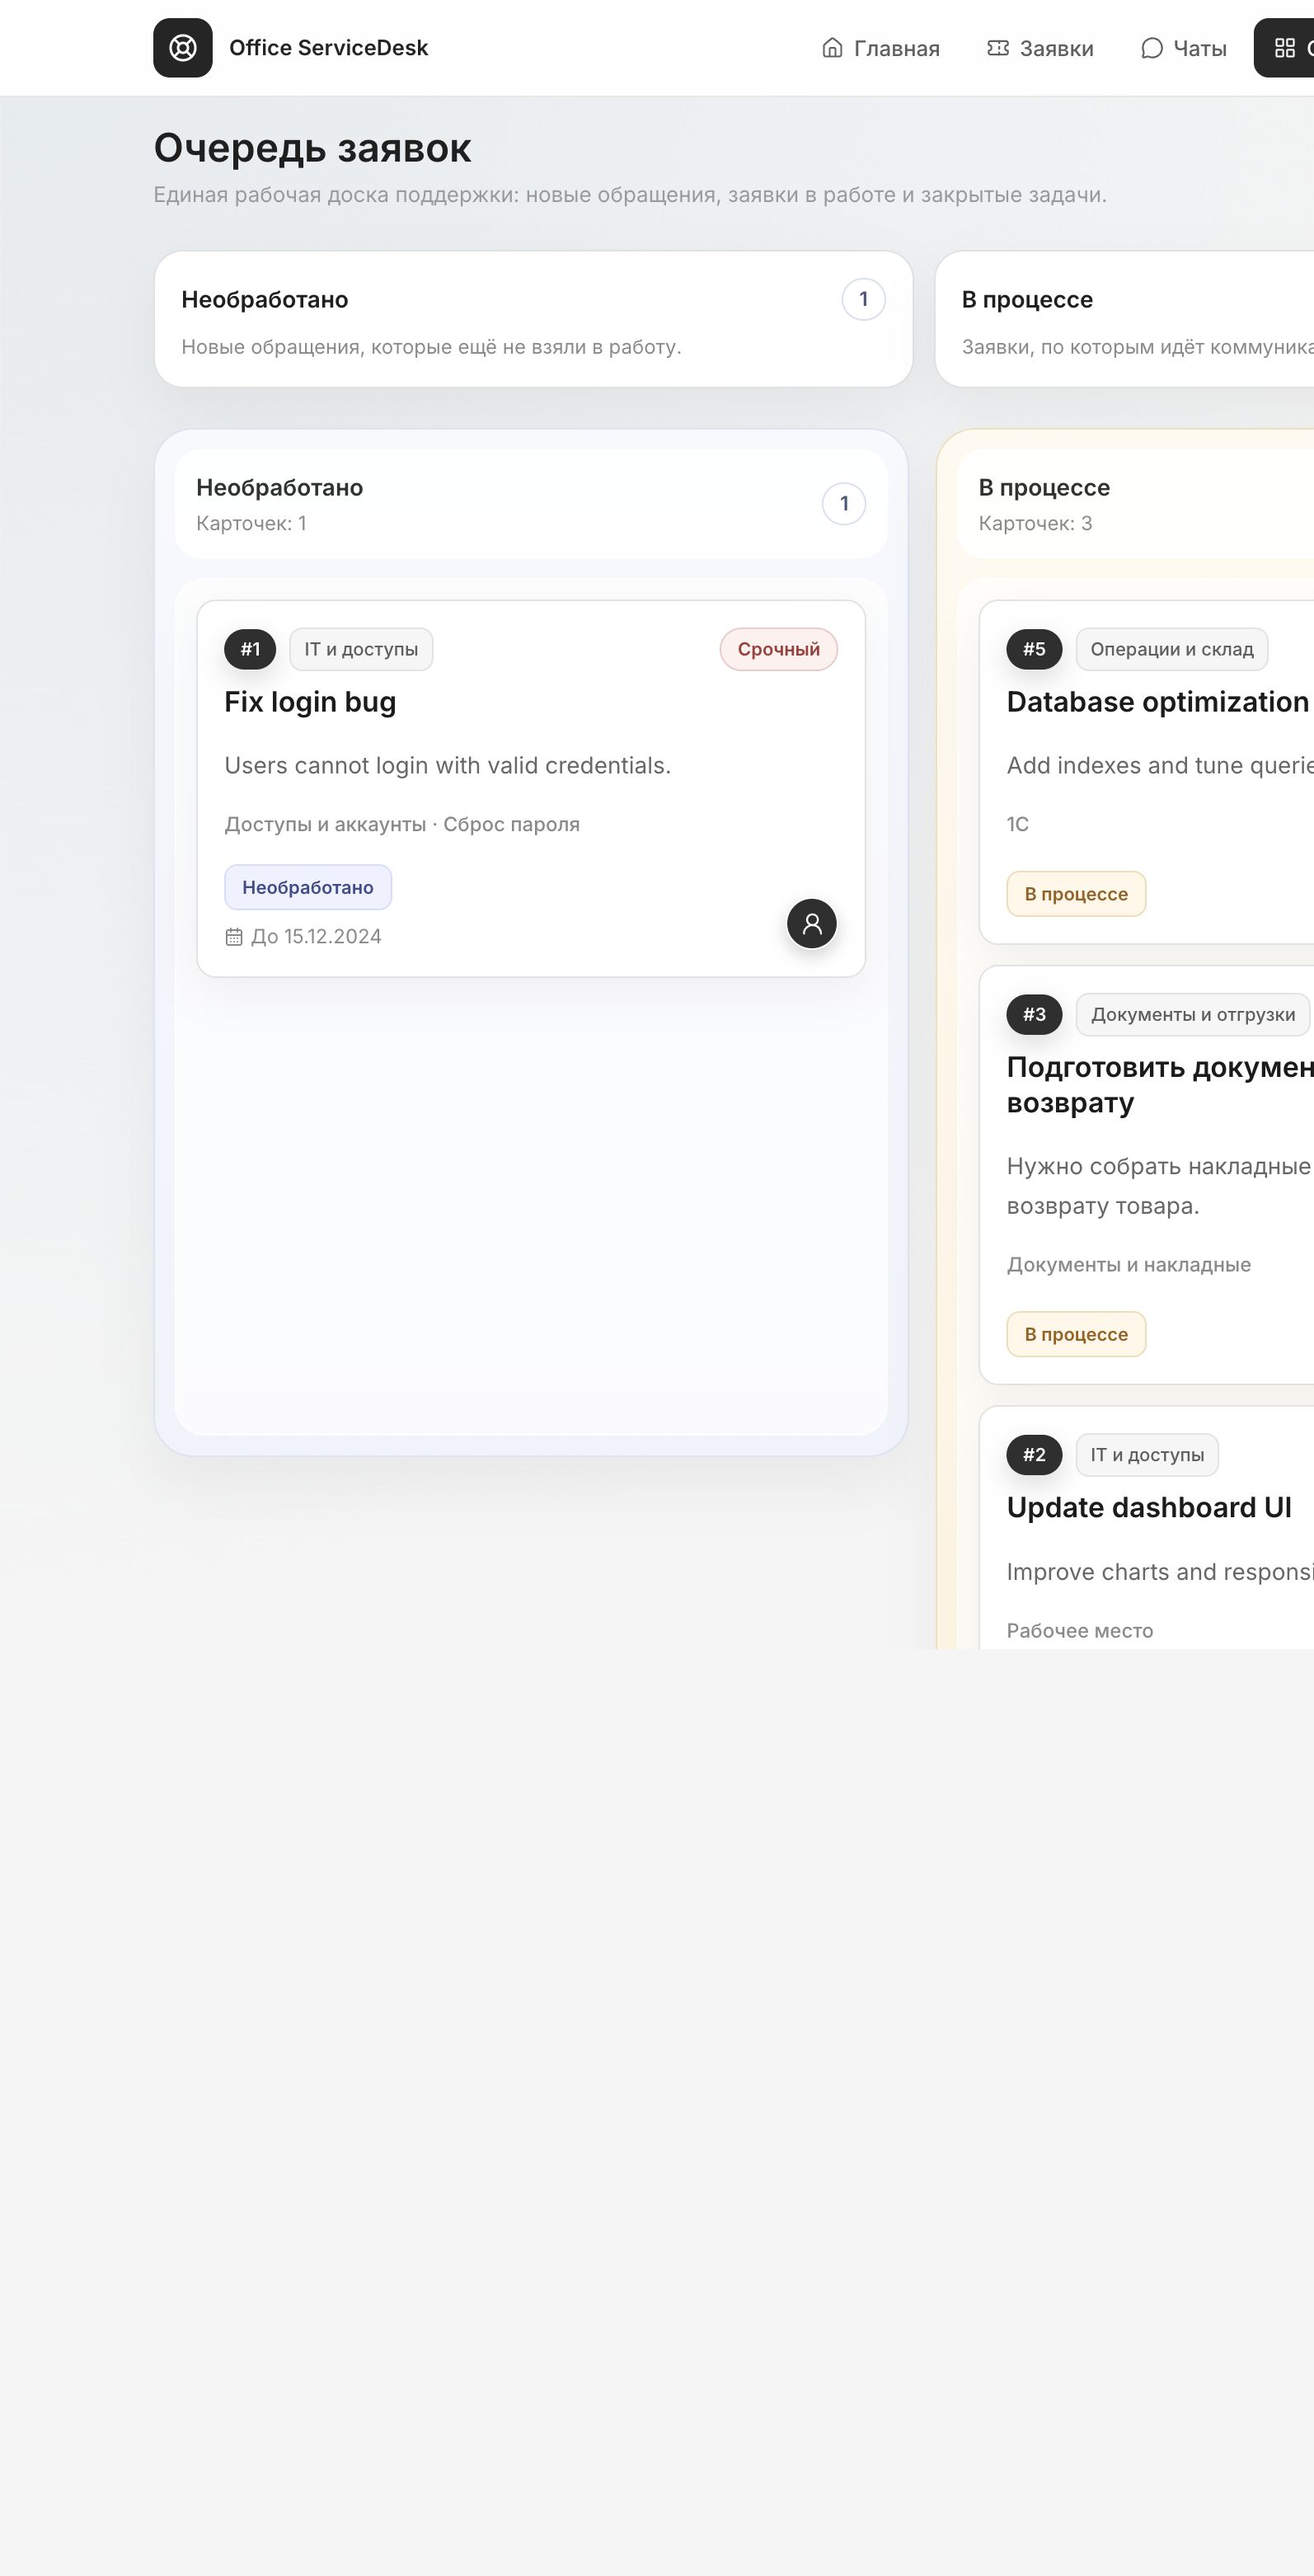
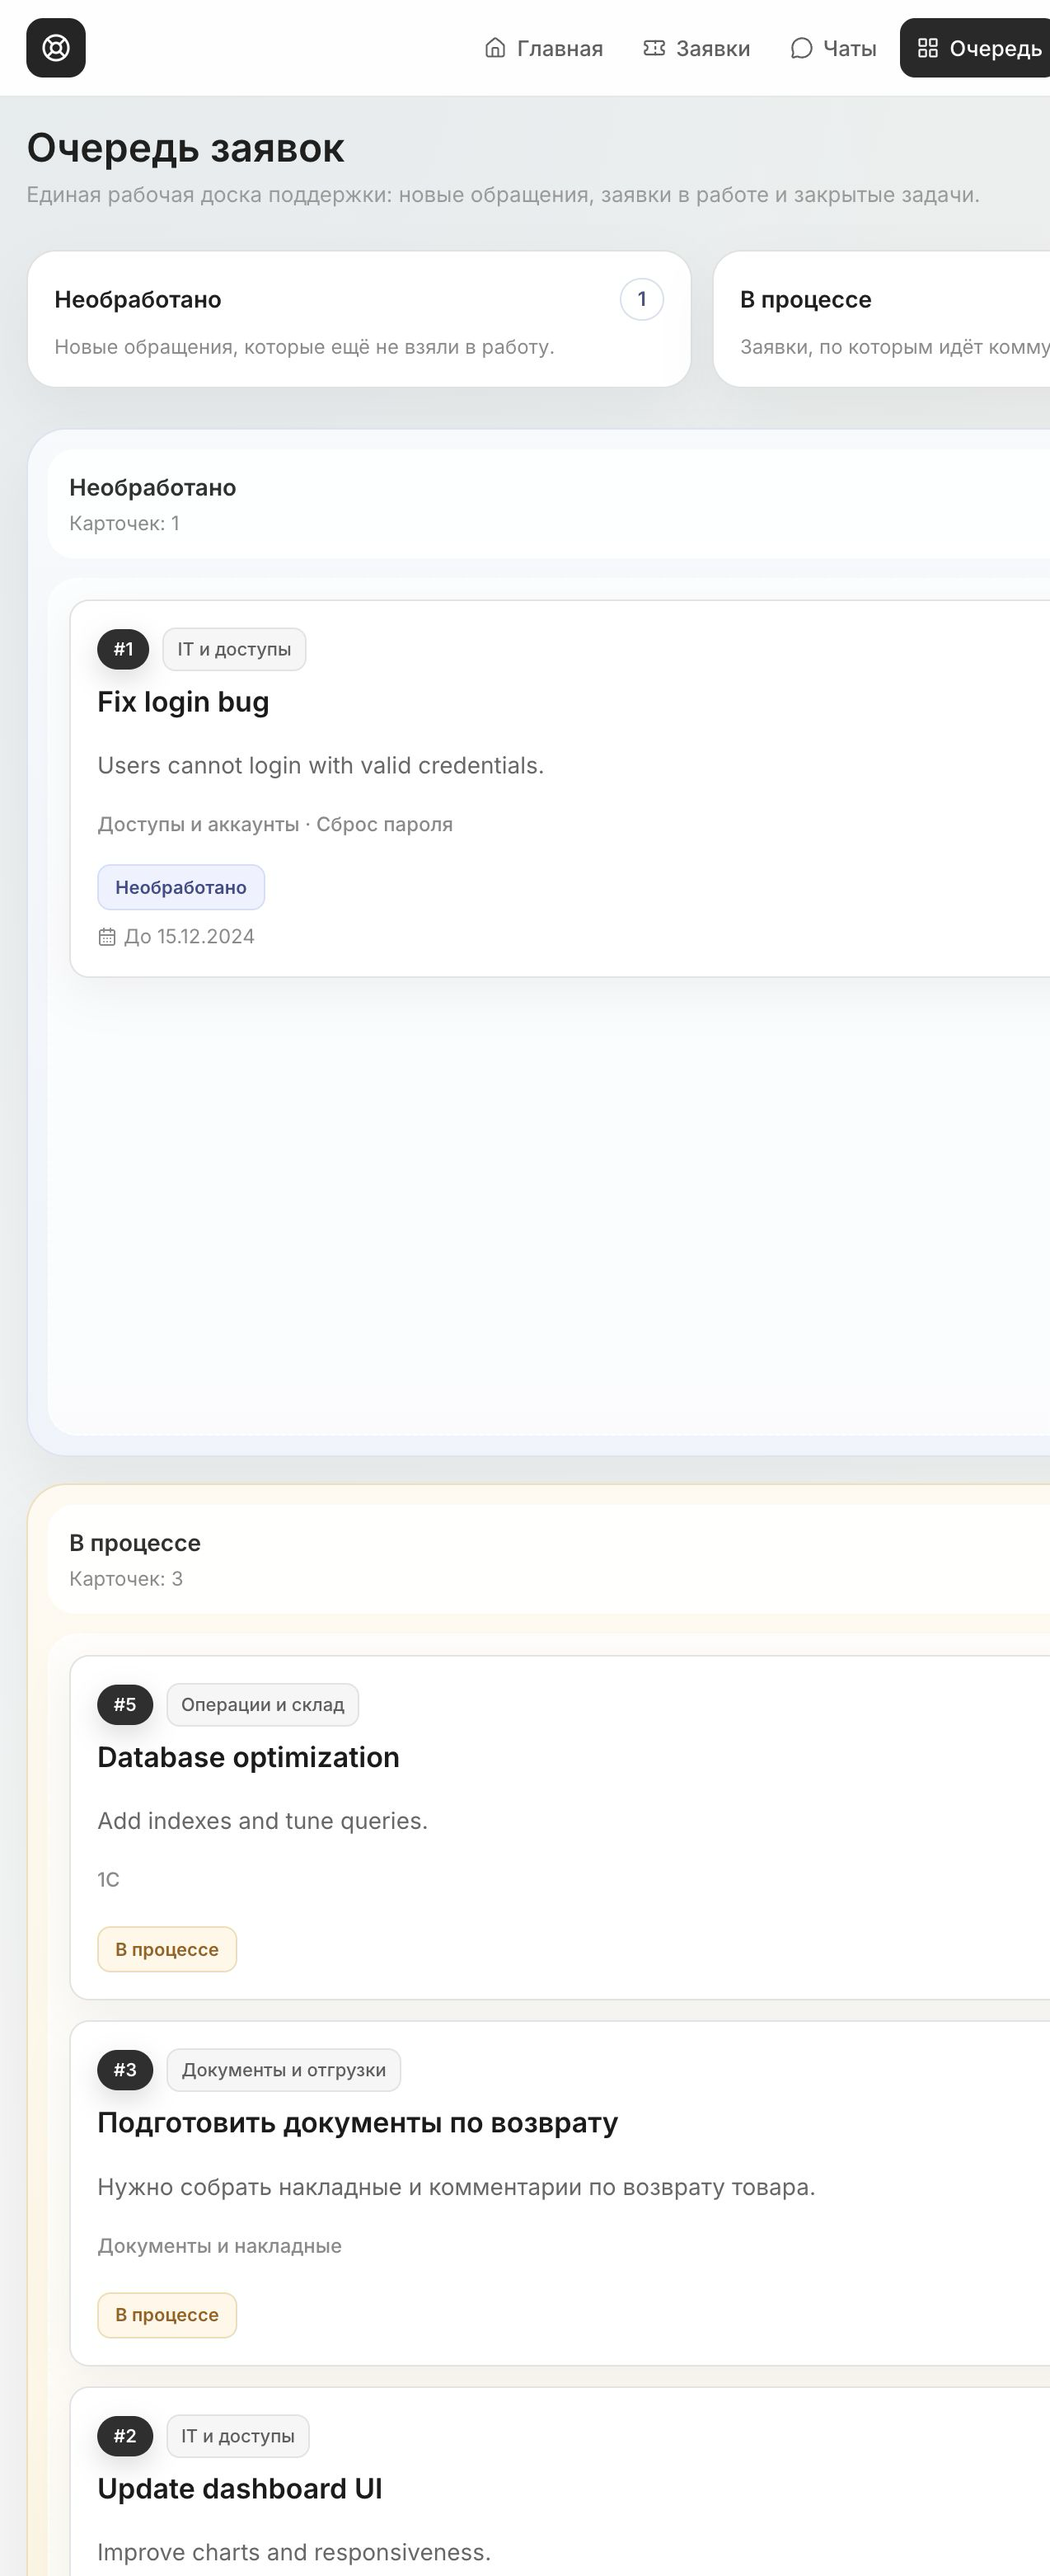
Refresh full ServiceDesk screenshots

diff --git a/docs/index.html b/docs/index.html
@@ -326,9 +326,10 @@
         width: 100%;
         aspect-ratio: 16 / 9;
         display: block;
-        object-fit: cover;
+        object-fit: contain;
         object-position: left top;
         border-radius: 8px;
+        background: #f5f7f4;
         box-shadow: 0 18px 38px rgba(0, 0, 0, 0.28);
         transition:
           transform 420ms ease,
@@ -403,11 +404,11 @@
       .strip img {
         width: 100%;
         aspect-ratio: 16 / 10;
-        object-fit: cover;
+        object-fit: contain;
         object-position: left top;
         border: 1px solid var(--line);
         border-radius: 8px;
-        background: #111;
+        background: #f5f7f4;
         transition:
           border-color 180ms ease,
           filter 180ms ease;

diff --git a/app/globals.css b/app/globals.css
@@ -385,9 +385,10 @@ h1 {
   display: block;
   width: 100%;
   aspect-ratio: 16 / 9;
-  object-fit: cover;
+  object-fit: contain;
   object-position: left top;
   border-radius: 8px;
+  background: #f5f7f4;
   box-shadow: 0 18px 38px rgba(0, 0, 0, 0.28);
   transition:
     transform 420ms ease,
@@ -635,11 +636,11 @@ h1 {
 .shot-strip img {
   width: 100%;
   aspect-ratio: 16 / 10;
-  object-fit: cover;
+  object-fit: contain;
   object-position: left top;
   border: 1px solid var(--line);
   border-radius: 8px;
-  background: #111;
+  background: #f5f7f4;
   transition:
     border-color 180ms ease,
     filter 180ms ease;
